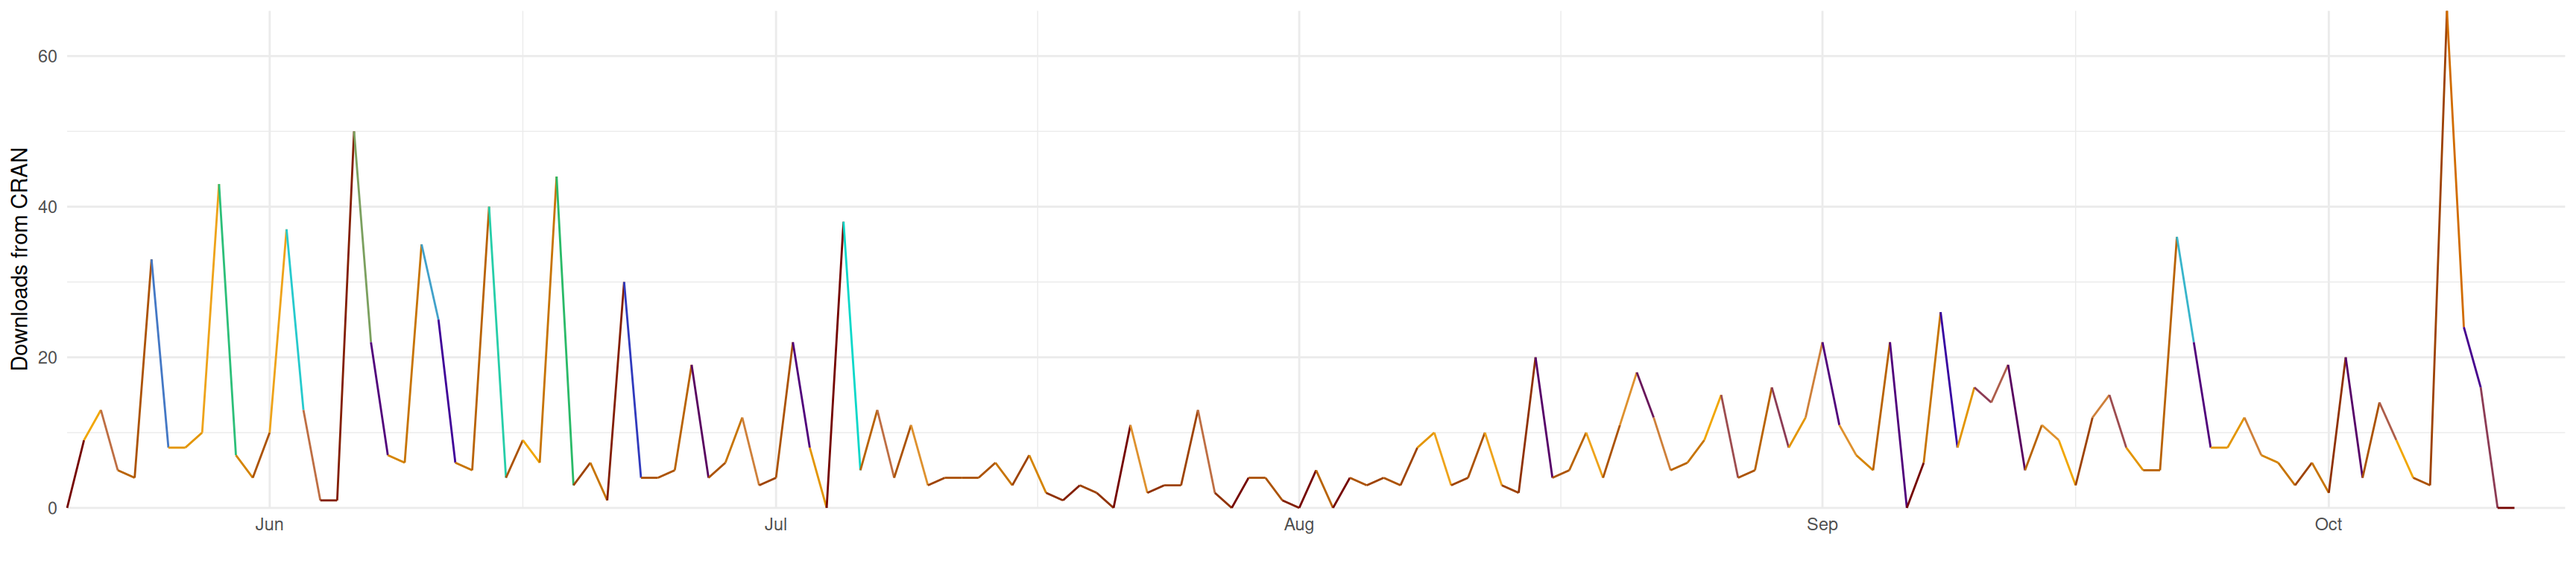
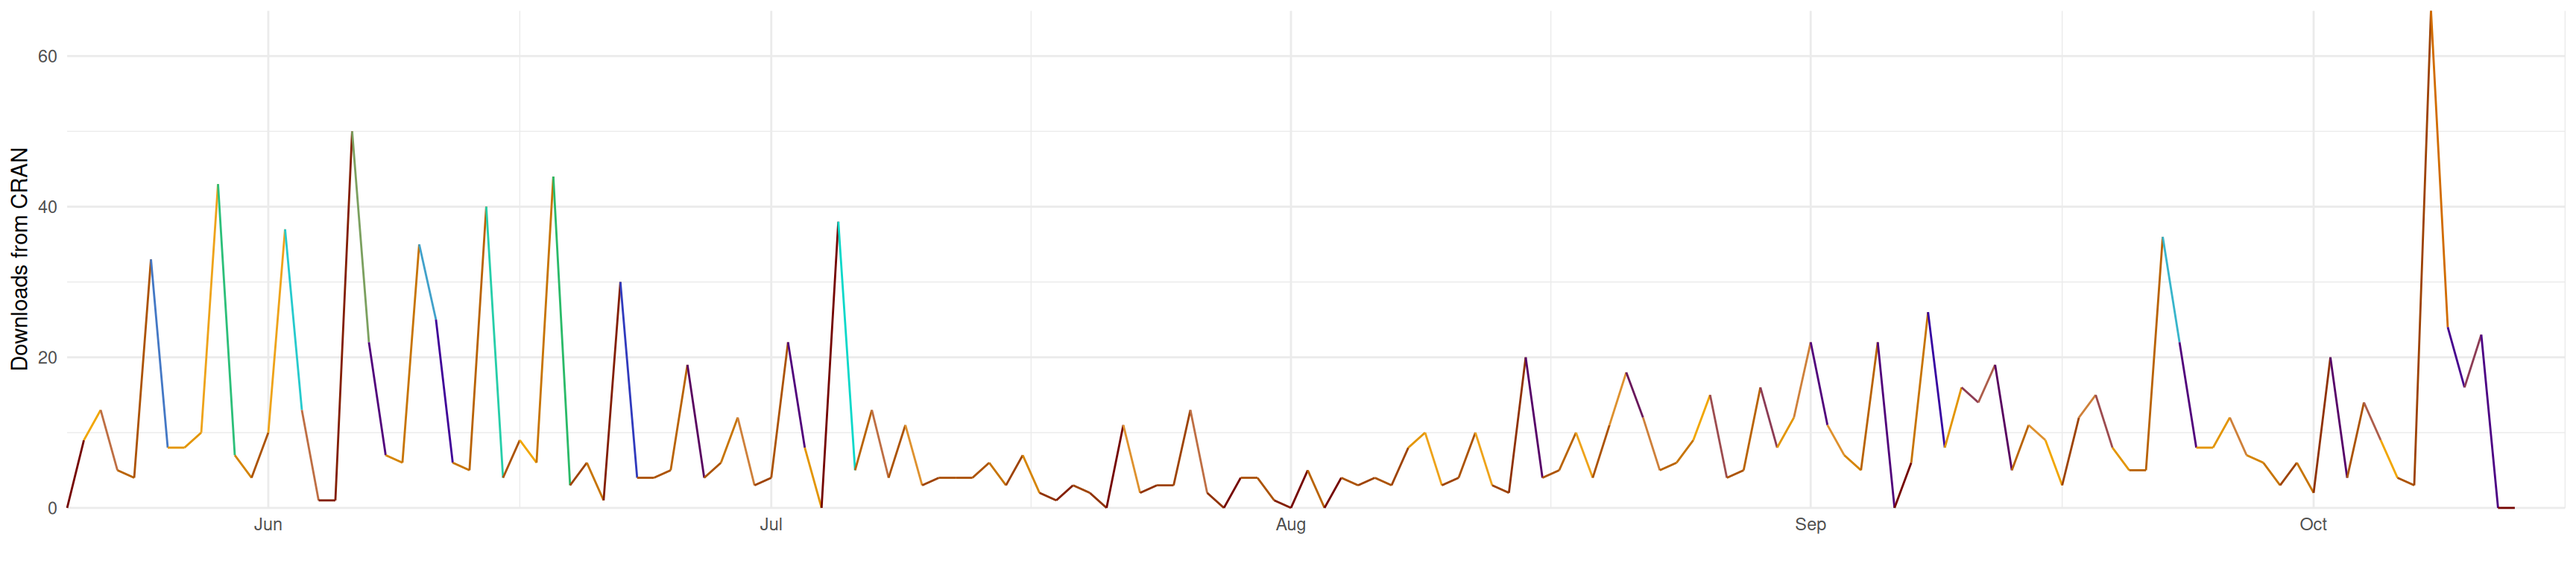
Daily site render (Quarto)

diff --git a/docs/blog.html b/docs/blog.html
@@ -217,7 +217,7 @@ window.Quarto = {
 
 <div class="quarto-listing quarto-listing-container-default" id="listing-listing">
 <div class="list quarto-listing-default">
-<div class="quarto-post image-right" data-index="0" data-categories="UmVzZWFyY2glMkNQcm9qZWN0cyUyQ1RyYXZlbA==" data-listing-date-sort="1788134400000" data-listing-file-modified-sort="1791811974782" data-listing-date-modified-sort="NaN" data-listing-reading-time-sort="2" data-listing-word-count-sort="366">
+<div class="quarto-post image-right" data-index="0" data-categories="UmVzZWFyY2glMkNQcm9qZWN0cyUyQ1RyYXZlbA==" data-listing-date-sort="1788134400000" data-listing-file-modified-sort="1791896255993" data-listing-date-modified-sort="NaN" data-listing-reading-time-sort="2" data-listing-word-count-sort="366">
 <div class="thumbnail"><a href="./posts/labvisitdiary.html" class="no-external">
 
 <div class="listing-item-img-placeholder card-img-top" >&nbsp;</div>
@@ -245,7 +245,7 @@ Anni Tave
 </a>
 </div>
 </div>
-<div class="quarto-post image-right" data-index="1" data-categories="UHJvamVjdHM=" data-listing-date-sort="1780272000000" data-listing-file-modified-sort="1791811974782" data-listing-date-modified-sort="NaN" data-listing-reading-time-sort="2" data-listing-word-count-sort="258">
+<div class="quarto-post image-right" data-index="1" data-categories="UHJvamVjdHM=" data-listing-date-sort="1780272000000" data-listing-file-modified-sort="1791896255993" data-listing-date-modified-sort="NaN" data-listing-reading-time-sort="2" data-listing-word-count-sort="258">
 <div class="thumbnail"><a href="./posts/rextorCRAN.html" class="no-external">
 
 <img loading="lazy" src="./posts/rextor.png" class="thumbnail-image" alt="rextor hex-logo.">
@@ -273,7 +273,7 @@ Anni Tave
 </a>
 </div>
 </div>
-<div class="quarto-post image-right" data-index="2" data-categories="UHJvamVjdHM=" data-listing-date-sort="1736985600000" data-listing-file-modified-sort="1791811974782" data-listing-date-modified-sort="NaN" data-listing-reading-time-sort="2" data-listing-word-count-sort="269">
+<div class="quarto-post image-right" data-index="2" data-categories="UHJvamVjdHM=" data-listing-date-sort="1736985600000" data-listing-file-modified-sort="1791896255993" data-listing-date-modified-sort="NaN" data-listing-reading-time-sort="2" data-listing-word-count-sort="269">
 <div class="thumbnail"><a href="./posts/whatsnew_SP.html" class="no-external">
 
 <img loading="lazy" src="./posts/Stats_Picker.png" class="thumbnail-image" alt="Stats Picker Logo.">
@@ -301,7 +301,7 @@ Anni Tave
 </a>
 </div>
 </div>
-<div class="quarto-post image-right" data-index="3" data-categories="UmFuZG9t" data-listing-date-sort="1729123200000" data-listing-file-modified-sort="1791811974782" data-listing-date-modified-sort="NaN" data-listing-reading-time-sort="1" data-listing-word-count-sort="14">
+<div class="quarto-post image-right" data-index="3" data-categories="UmFuZG9t" data-listing-date-sort="1729123200000" data-listing-file-modified-sort="1791896255993" data-listing-date-modified-sort="NaN" data-listing-reading-time-sort="1" data-listing-word-count-sort="14">
 <div class="thumbnail"><a href="./posts/first.html" class="no-external">
 
 <img loading="lazy" src="./posts/mathlabala_2.png" class="thumbnail-image" alt="Purple and red mandala created in Matlab.">

diff --git a/docs/dashboard.html b/docs/dashboard.html
@@ -182,7 +182,7 @@ grid-auto-rows: minmax(0, 1fr);">
 All time dropR downloads
 </p>
 <p class="value-box-value">
-37722
+37732
 </p>
 </div>
 </div>
@@ -198,19 +198,19 @@ All time dropR downloads
 Last month's dropR downloads
 </p>
 <p class="value-box-value">
-312
+318
 </p>
 </div>
 </div>
 </div>
-<script data-bslib-card-init="">bslib.Card.initializeAllCards();</script></div><div class="card cell html-fill-item html-fill-container bslib-card" data-title="Last day's dropR downloads ( 2026-10-10 ), compared to last week's maximum number of downloads" data-bslib-card-init="" data-require-bs-caller="card()" data-full-screen="false">
+<script data-bslib-card-init="">bslib.Card.initializeAllCards();</script></div><div class="card cell html-fill-item html-fill-container bslib-card" data-title="Last day's dropR downloads ( 2026-10-11 ), compared to last week's maximum number of downloads" data-bslib-card-init="" data-require-bs-caller="card()" data-full-screen="false">
 <div class="card-header"><div class="card-title"><span style="display: inline">
-Last day’s dropR downloads ( 2026-10-10 ), compared to last week’s maximum number of downloads
+Last day’s dropR downloads ( 2026-10-11 ), compared to last week’s maximum number of downloads
 </span></div></div>
 <div class="card-body html-fill-item html-fill-container">
 <div class="cell-output-display html-fill-item html-fill-container">
-<div class="gauge html-widget html-fill-item html-fill-container" id="htmlwidget-df1b080dcac99290ab98" style="width:100%;height:406px;"></div>
-<script type="application/json" data-for="htmlwidget-df1b080dcac99290ab98">{"x":{"value":8,"min":0,"max":12,"customSectors":{"percents":false,"ranges":[{"lo":7,"hi":12,"color":"rgba(63, 182, 24, 0.7)"},{"lo":0,"hi":6,"color":"rgba(255, 0, 57, 0.7)"}]},"symbol":null,"label":null,"humanFriendly":true,"humanFriendlyDecimal":1,"href":null},"evals":[],"jsHooks":[]}</script>
+<div class="gauge html-widget html-fill-item html-fill-container" id="htmlwidget-5ebff58b0c630c448e08" style="width:100%;height:406px;"></div>
+<script type="application/json" data-for="htmlwidget-5ebff58b0c630c448e08">{"x":{"value":10,"min":0,"max":12,"customSectors":{"percents":false,"ranges":[{"lo":7,"hi":12,"color":"rgba(63, 182, 24, 0.7)"},{"lo":0,"hi":6,"color":"rgba(255, 0, 57, 0.7)"}]},"symbol":null,"label":null,"humanFriendly":true,"humanFriendlyDecimal":1,"href":null},"evals":[],"jsHooks":[]}</script>
 </div>
 </div>
 <bslib-tooltip placement="auto" bsoptions="[]" data-require-bs-version="5" data-require-bs-caller="tooltip()">
@@ -265,7 +265,7 @@ rextor package
 All time rextor downloads
 </p>
 <p class="value-box-value">
-1471
+1494
 </p>
 </div>
 </div>

diff --git a/docs/projects.html b/docs/projects.html
@@ -250,7 +250,7 @@ window.Quarto = {
 
 <div class="quarto-listing quarto-listing-container-grid" id="listing-listing">
 <div class="list grid quarto-listing-cols-3">
-<div class="g-col-1" data-index="0" data-listing-file-modified-sort="1791811974782" data-listing-reading-time-sort="1" data-listing-word-count-sort="60">
+<div class="g-col-1" data-index="0" data-listing-file-modified-sort="1791896255993" data-listing-reading-time-sort="1" data-listing-word-count-sort="60">
 <a href="./projects_pgs/PsychResearch.html" class="quarto-grid-link">
 <div class="quarto-grid-item card h-100 card-left">
 <p class="card-img-top">
@@ -271,7 +271,7 @@ This is an online book targeted at psychology students starting to learn R. From
 </div>
 </div></a>
 </div>
-<div class="g-col-1" data-index="1" data-listing-file-modified-sort="1791811974784" data-listing-reading-time-sort="1" data-listing-word-count-sort="64">
+<div class="g-col-1" data-index="1" data-listing-file-modified-sort="1791896255994" data-listing-reading-time-sort="1" data-listing-word-count-sort="64">
 <a href="./projects_pgs/StatsPicker.html" class="quarto-grid-link">
 <div class="quarto-grid-item card h-100 card-left">
 <p class="card-img-top">
@@ -292,7 +292,7 @@ Stats Picker is a Study Tool for learning statistics in a fun and accessible way
 </div>
 </div></a>
 </div>
-<div class="g-col-1" data-index="2" data-listing-file-modified-sort="1791811974784" data-listing-reading-time-sort="1" data-listing-word-count-sort="154">
+<div class="g-col-1" data-index="2" data-listing-file-modified-sort="1791896255994" data-listing-reading-time-sort="1" data-listing-word-count-sort="154">
 <a href="./projects_pgs/dropR.html" class="quarto-grid-link">
 <div class="quarto-grid-item card h-100 card-left">
 <p class="card-img-top">
@@ -313,7 +313,7 @@ This package &amp; web app are here to help make dropout analysis a routine step
 </div>
 </div></a>
 </div>
-<div class="g-col-1" data-index="3" data-listing-file-modified-sort="1791811974785" data-listing-reading-time-sort="1" data-listing-word-count-sort="61">
+<div class="g-col-1" data-index="3" data-listing-file-modified-sort="1791896255995" data-listing-reading-time-sort="1" data-listing-word-count-sort="61">
 <a href="./projects_pgs/rextor.html" class="quarto-grid-link">
 <div class="quarto-grid-item card h-100 card-left">
 <p class="card-img-top">

diff --git a/docs/index.html b/docs/index.html
@@ -141,7 +141,7 @@ ul.task-list li input[type="checkbox"] {
 <p>I am a Ph.D.&nbsp;candidate in Methods of Psychology and I am a bit of a statistics and R nerd. Feel free to contact me using the options below or learn more about my academic career.</p>
 <p>You can also learn more about my <a href="./projects.html">Projects</a> - maybe some will help you or your students?</p>
 <hr>
-<p><em>Last updated on 2026-10-12 13:38:52.</em></p>
+<p><em>Last updated on 2026-10-13 13:01:46.</em></p>
 
 
 </main> 
